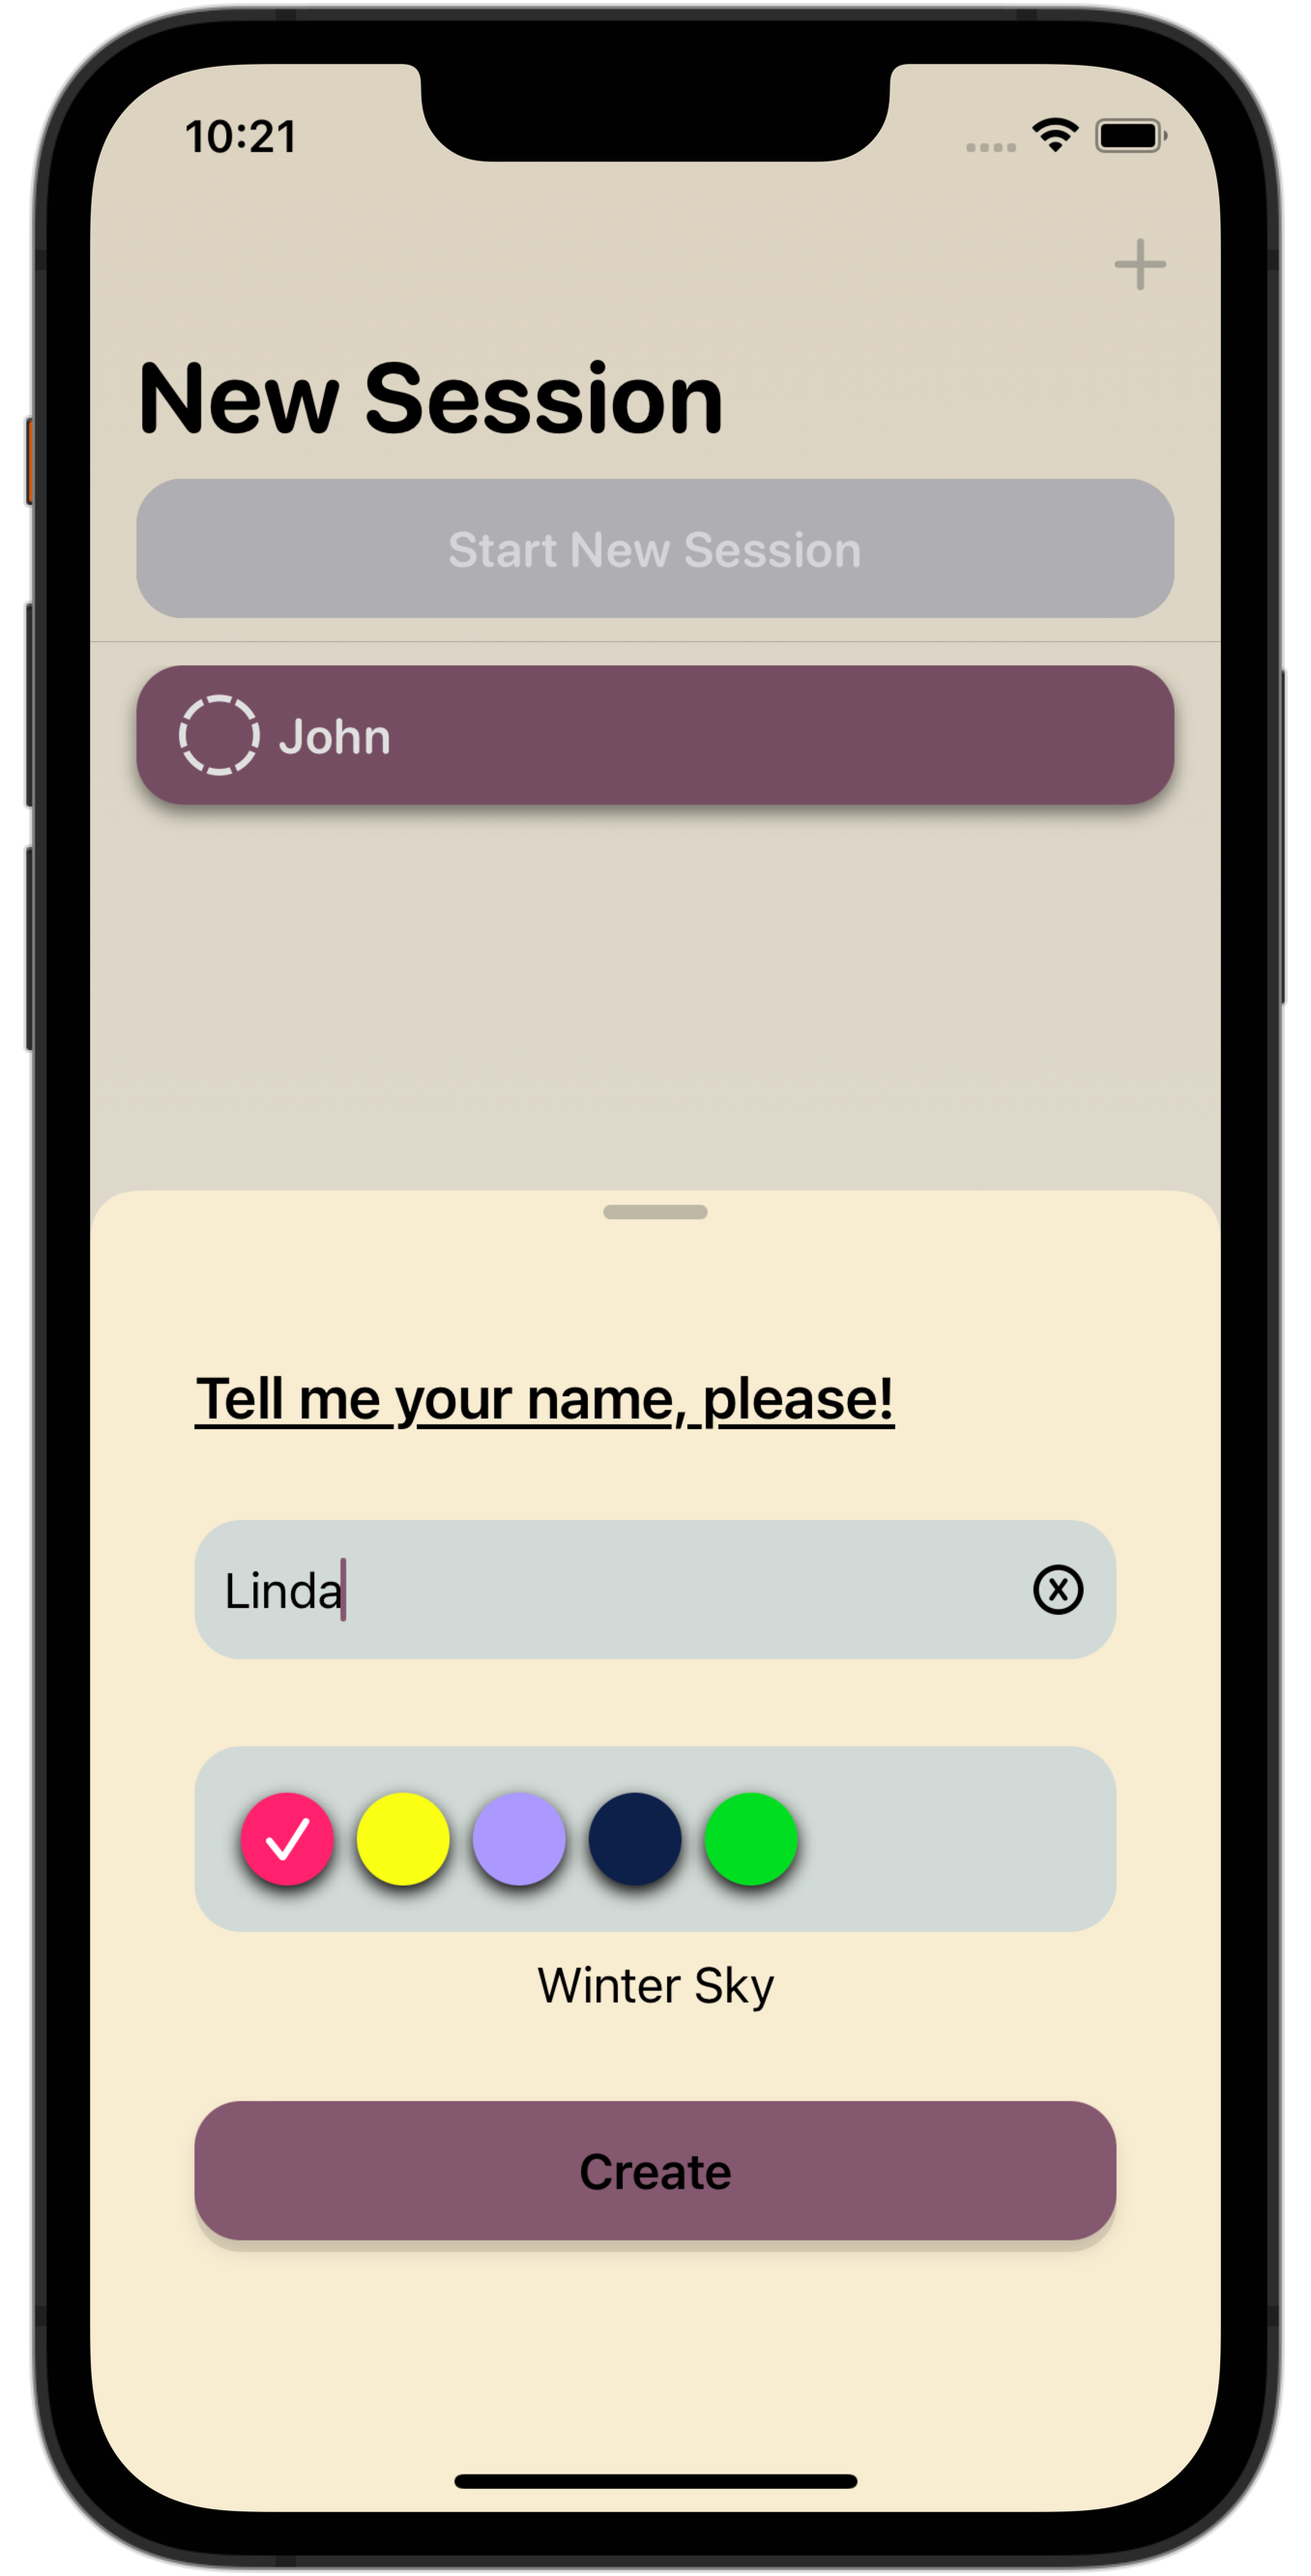
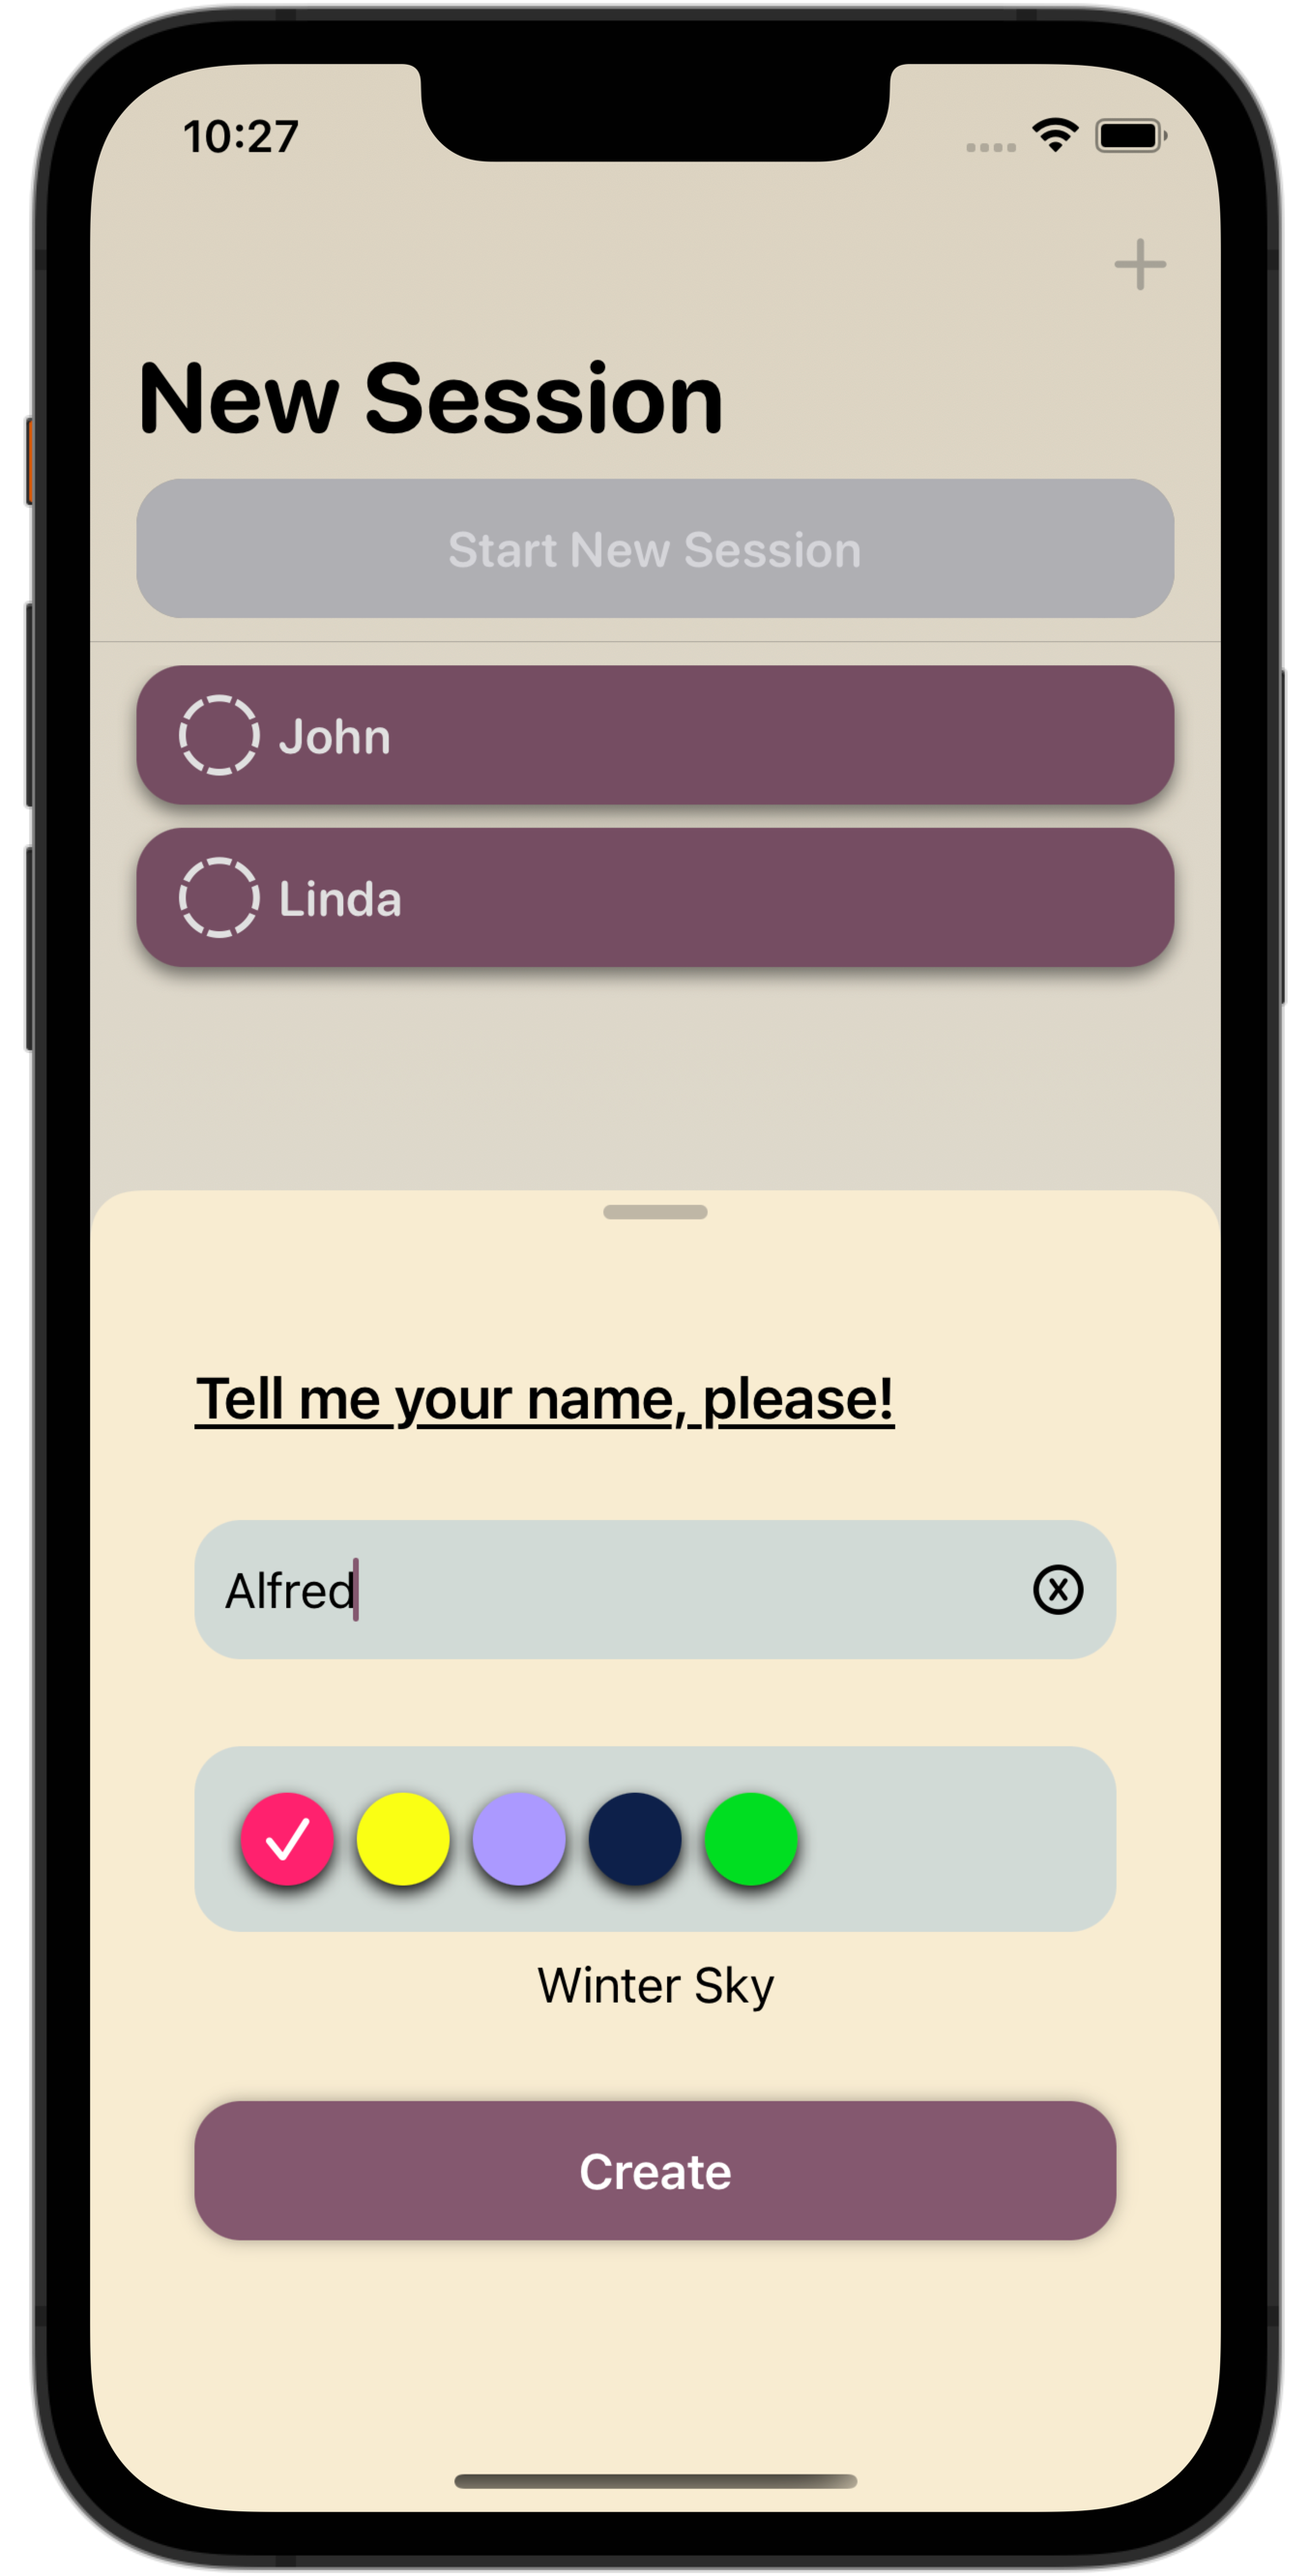
Redone screenshot after fixing button

diff --git a/TriomiCount/Core/Components/AddNewPlayer/AddNewPlayerView.swift b/TriomiCount/Core/Components/AddNewPlayer/AddNewPlayerView.swift
@@ -85,7 +85,7 @@ extension AddNewPlayerView {
       Text(L10n.AddNewPlayerView.CreateButton.labelText)
         .frame(maxWidth: .infinity)
     }
-    .buttonStyle(.offsetStyle)
+    .buttonStyle(.shadowed)
     .padding(.horizontal, 20)
     .disabled(!viewModel.nameIsValid)
   }
